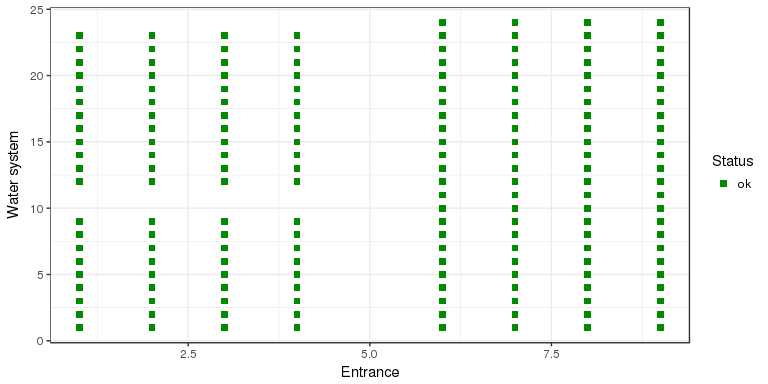
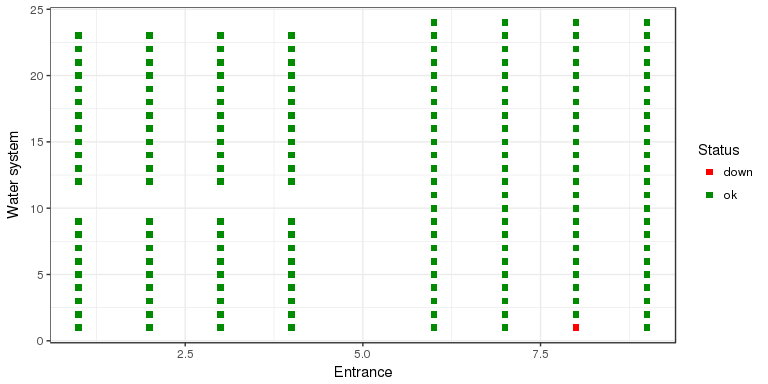
Latest status

diff --git a/camreport.md b/camreport.md
@@ -1,12 +1,14 @@
 Camera Status report
 ================
-14/06/2018 - 11:15:06
+14/06/2018 - 11:45:05
 
 -   [LIST OF DIRECTORIES AND FREE SPACE:](#list-of-directories-and-free-space)
 -   [TEMPERATURES:](#temperatures)
 -   [LIST OF BACKUP DIRECTORY AND SIZES:](#list-of-backup-directory-and-sizes)
 
-    All cameras are up and running
+    Cameras currently down:
+      Names Status
+    1 cam87   down
 
 ![](camreport_files/figure-markdown_github/unnamed-chunk-2-1.png)
 
@@ -15,13 +17,13 @@ LIST OF DIRECTORIES AND FREE SPACE:
 
 ``` text
 Filesystem     1K-blocks      Used Available Use% Mounted on
-/dev/root      103081248   9860944  87961040  11% /
+/dev/root      103081248   9861632  87960352  11% /
 devtmpfs         1017504         0   1017504   0% /dev
 tmpfs            1019728       880   1018848   1% /run
 tmpfs            1019728        68   1019660   1% /dev/shm
 cgroup_root      1019728         0   1019728   0% /sys/fs/cgroup
 /dev/sda1        1032088     20580    959080   3% /boot
-/dev/sda3      722355288 181981064 503657680  27% /home
+/dev/sda3      722355288 182125264 503513480  27% /home
 cgmfs                100         0       100   0% /run/cgmanager/fs
 ```
 
@@ -36,7 +38,7 @@ LIST OF BACKUP DIRECTORY AND SIZES:
 -----------------------------------
 
 ``` text
-total 119790664
+total 119934864
 -rw-r--r-- 1 user1 users 115322880 May  4 15:33 MT20180504153129.tar
 -rw-r--r-- 1 user1 users 115384320 May  4 15:38 MT20180504153701.tar
 -rw-r--r-- 1 user1 users  87592960 May 15 16:58 MT20180515165646.tar
@@ -1125,6 +1127,7 @@ total 119790664
 -rw-r--r-- 1 user1 users 147927040 Jun 14 10:00 MT20180614095611.tar
 -rw-r--r-- 1 user1 users 148797440 Jun 14 10:21 MT20180614101717.tar
 -rw-r--r-- 1 user1 users 147886080 Jun 14 10:51 MT20180614104716.tar
+-rw-r--r-- 1 user1 users 147660800 Jun 14 11:21 MT20180614111716.tar
 -rw-r--r-- 1 user1 users       215 May 17 11:17 testscans.sh
 drwxr-xr-x 3 user1 users      4096 Jun  8 15:15 tmp
 ```
